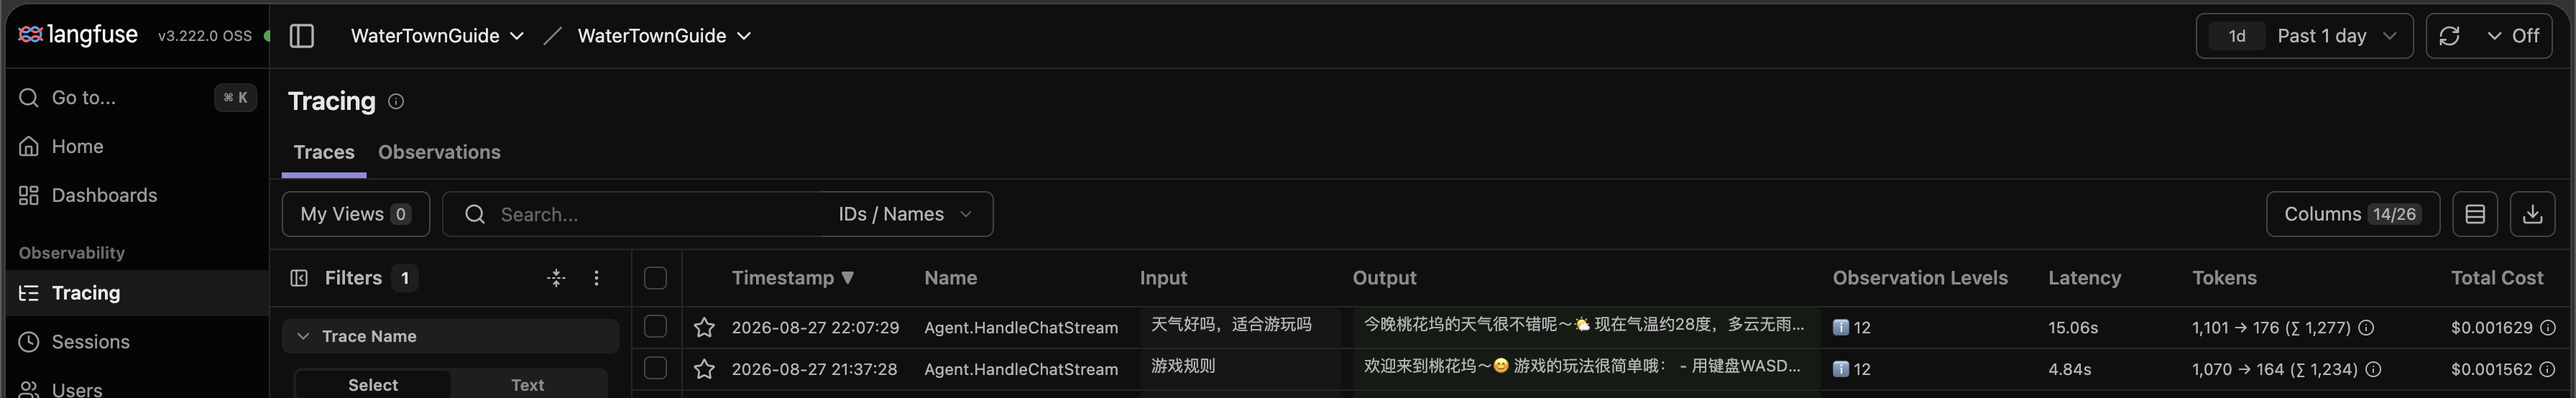
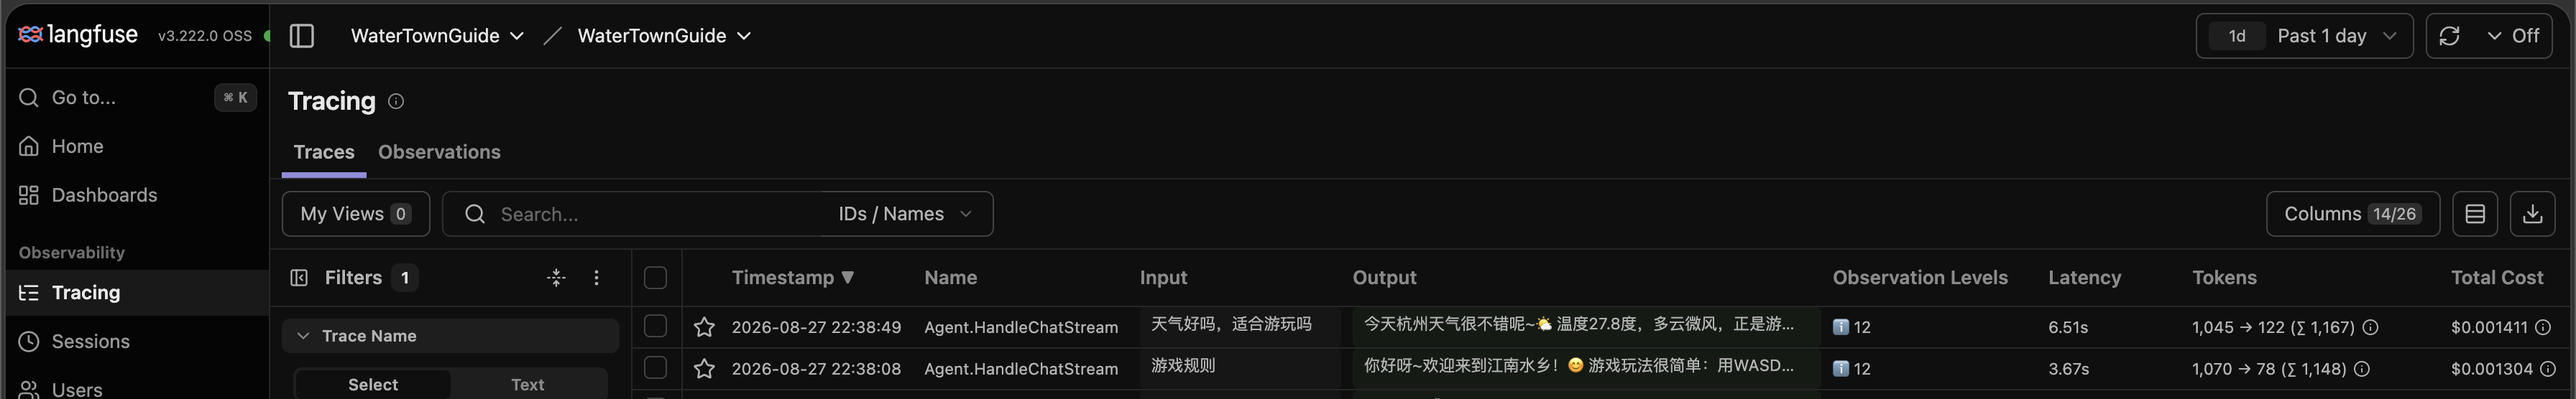
fix(trace): 以 finish_reason=tool_calls 为界消除 llm.chat 与工具 span 的重叠
- End firstLLMSpan 时机由工具结果到达提前到 finish_reason=tool_calls
  到达（此时 arguments 分片已传完），修复其耗时覆盖工具执行（11s 含 9s
  工具）的回归
- 工具 span 创建时机同步后移至该时刻，与 llm.chat 的 End 无缝衔接，
  消除「模型吐参数尾巴」被同时计入两侧的 ~0.3s 重叠
- handleToolResult/closeSpans 保留为 provider 不回传 finish_reason 时的
  幂等兜底
- 更新修复后的 Jaeger/Langfuse 效果截图

diff --git a/backend/internal/adapter/llm/eino_agent.go b/backend/internal/adapter/llm/eino_agent.go
@@ -535,7 +535,7 @@ func (s *streamState) closeSpans() {
 	s.endSecondModelSpan()
 }
 
-// endFirstLLMSpan 结束第一次 llm.chat span（工具结果到达时调用一次，closeSpans 兜底）。
+// endFirstLLMSpan 结束第一次 llm.chat span（finish_reason=tool_calls 到达时调用，handleToolResult/closeSpans 兜底）。
 // 用累积完整的 firstModelTCs 写 Output，保证流式分片的 arguments 已拼接完整。
 func (s *streamState) endFirstLLMSpan(tcs []eino_schema.ToolCall) {
 	if s.firstLLMEnded || s.firstLLMSpan == nil {
@@ -555,8 +555,9 @@ func (s *streamState) endFirstLLMSpan(tcs []eino_schema.ToolCall) {
 // accumulateFirstModelToolCalls 累积第一次模型调用的 tool_calls。
 //
 // OpenAI 流式协议下 arguments 按增量分片传输（首个 delta 只有 index/name，
-// 后续 delta 才逐段补齐 JSON），必须等全部 delta 到齐参数才完整，
-// 因此 End firstLLMSpan 延迟到工具结果到达时统一进行。
+// 后续 delta 才逐段补齐 JSON），必须等全部 delta 到齐参数才完整。
+// 收尾时机由 finish_reason=tool_calls 触发（handleStreamChunk/handleAssistantMessage），
+// handleToolResult/closeSpans 仅作兜底。
 func (s *streamState) accumulateFirstModelToolCalls(deltas []eino_schema.ToolCall) {
 	for _, d := range deltas {
 		// Index 为指针，缺失时默认并入第 0 个工具调用
@@ -631,6 +632,10 @@ func (s *streamState) ensureToolCallSpan(tcs []eino_schema.ToolCall) {
 // 精确收敛到「模型决策→工具结果」区间（方案 c），并置 toolPhaseDone，
 // 供第二次模型首条消息到达时即建 secondModelSpan（方案 b），不再等 content。
 func (s *streamState) handleToolResult(msg *eino_schema.Message) {
+	// 兜底：provider 未回传 finish_reason 时，finish_reason 分支不会创建工具 span，
+	// 此处补建（内部幂等；正常路径 toolCallSpan 已存在则直接跳过）
+	s.ensureToolCallSpan(s.firstModelTCs)
+
 	// 工具结果到达 = 第一次模型调用（含 tool_calls 增量分片）真正结束：
 	// 此时累积的 arguments 已完整，收尾 firstLLMSpan 并写入完整工具决策 Output。
 	// 必须在 toolCallSpan 判空之前执行，避免兜底路径漏 End。
@@ -703,13 +708,19 @@ func (s *streamState) handleAssistantMessage(msg *eino_schema.Message, out chan<
 		s.startSecondModelSpan()
 	}
 
-	s.ensureToolCallSpan(msg.ToolCalls)
-
 	// 第一次模型调用阶段的 ToolCalls（含后续 arguments 增量 delta）全部累积；
 	// toolPhaseDone 之后到达的属于下一次模型调用，不再并入
 	if len(msg.ToolCalls) > 0 && !s.toolPhaseDone {
 		s.isFirstModelCall = false
 		s.accumulateFirstModelToolCalls(msg.ToolCalls)
+	}
+
+	// 非流式消息一次性完整：finish_reason=tool_calls 即参数到齐，立即收尾
+	// firstLLMSpan 并创建工具 span，二者无缝衔接、耗时互不重叠
+	if s.firstLLMSpan != nil && len(s.firstModelTCs) > 0 &&
+		msg.ResponseMeta != nil && msg.ResponseMeta.FinishReason == "tool_calls" {
+		s.endFirstLLMSpan(s.firstModelTCs)
+		s.ensureToolCallSpan(s.firstModelTCs)
 	}
 
 	if msg.ReasoningContent != "" {
@@ -799,13 +810,22 @@ func (s *streamState) handleStreamChunk(chunk *eino_schema.Message, out chan<- *
 	s.setModelName(chunk)
 	s.setUsage(chunk)
 
-	s.ensureToolCallSpan(chunk.ToolCalls)
-
 	// 流式 tool_calls 分多次 delta 到达：首个含 name，其余只带 arguments 片段，
-	// 全部累积后才完整；End 延迟到工具结果到达时统一进行（见 handleToolResult）
+	// 累积至 finish_reason=tool_calls 后参数完整（下方判断处统一收尾）
 	if len(chunk.ToolCalls) > 0 && !s.toolPhaseDone {
 		s.isFirstModelCall = false
 		s.accumulateFirstModelToolCalls(chunk.ToolCalls)
+	}
+
+	// finish_reason=tool_calls 到达表示第一次模型输出结束、所有 arguments 分片已传完：
+	// 1) 立即收尾 firstLLMSpan，耗时精确等于「模型决策」，不再覆盖后续工具执行；
+	// 2) 此刻才创建工具 span——与 llm.chat 的 End 无缝衔接、零重叠
+	//    （若在首个 delta 就建，会把「模型吐参数的尾巴」算进工具耗时）。
+	// 注意必须在下方 Content=="" 提前返回之前判断（tool_calls 的 chunk 通常无文本内容）
+	if s.firstLLMSpan != nil && len(s.firstModelTCs) > 0 &&
+		chunk.ResponseMeta != nil && chunk.ResponseMeta.FinishReason == "tool_calls" {
+		s.endFirstLLMSpan(s.firstModelTCs)
+		s.ensureToolCallSpan(s.firstModelTCs)
 	}
 
 	isThinking := chunk.ReasoningContent != "" && chunk.Content == ""
